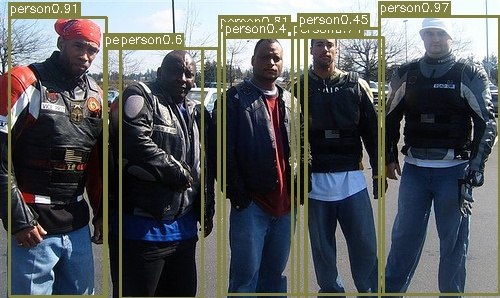
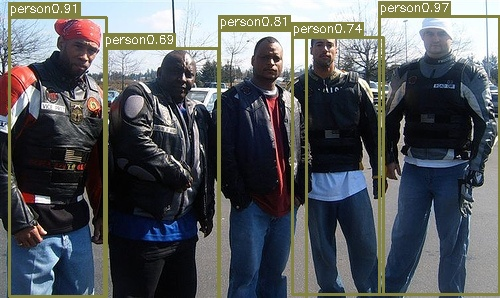
feat: finish YOLO/predict.py

Changed region(s): [[0.21, 0.0302, 0.75, 1.0], [0.24, 0.0906, 0.39, 0.151], [0.75, 0.9966, 0.78, 1.0]]

diff --git a/YOLO/predict.py b/YOLO/predict.py
@@ -100,7 +100,7 @@ def nms(bboxes, scores, threshold=0.5):
         yy1 = torch.max(y1[i], y1[order[1:]])
         xx2 = torch.min(x2[i], x2[order[1:]])
         yy2 = torch.min(y2[i], y2[order[1:]])
-        inter = torch.clamp(xx2 - xx1 + 1, min=0) * torch.clamp(yy2 - yy1 + 1, min=0)
+        inter = torch.clamp(xx2 - xx1 , min=0) * torch.clamp(yy2 - yy1 , min=0)
         ovr = inter / (areas[i] + areas[order[1:]] - inter)
 
         ids = (ovr <= threshold).nonzero(as_tuple=False).squeeze() # 注意此时idx为[N - 1,], 而order为[N, ]
